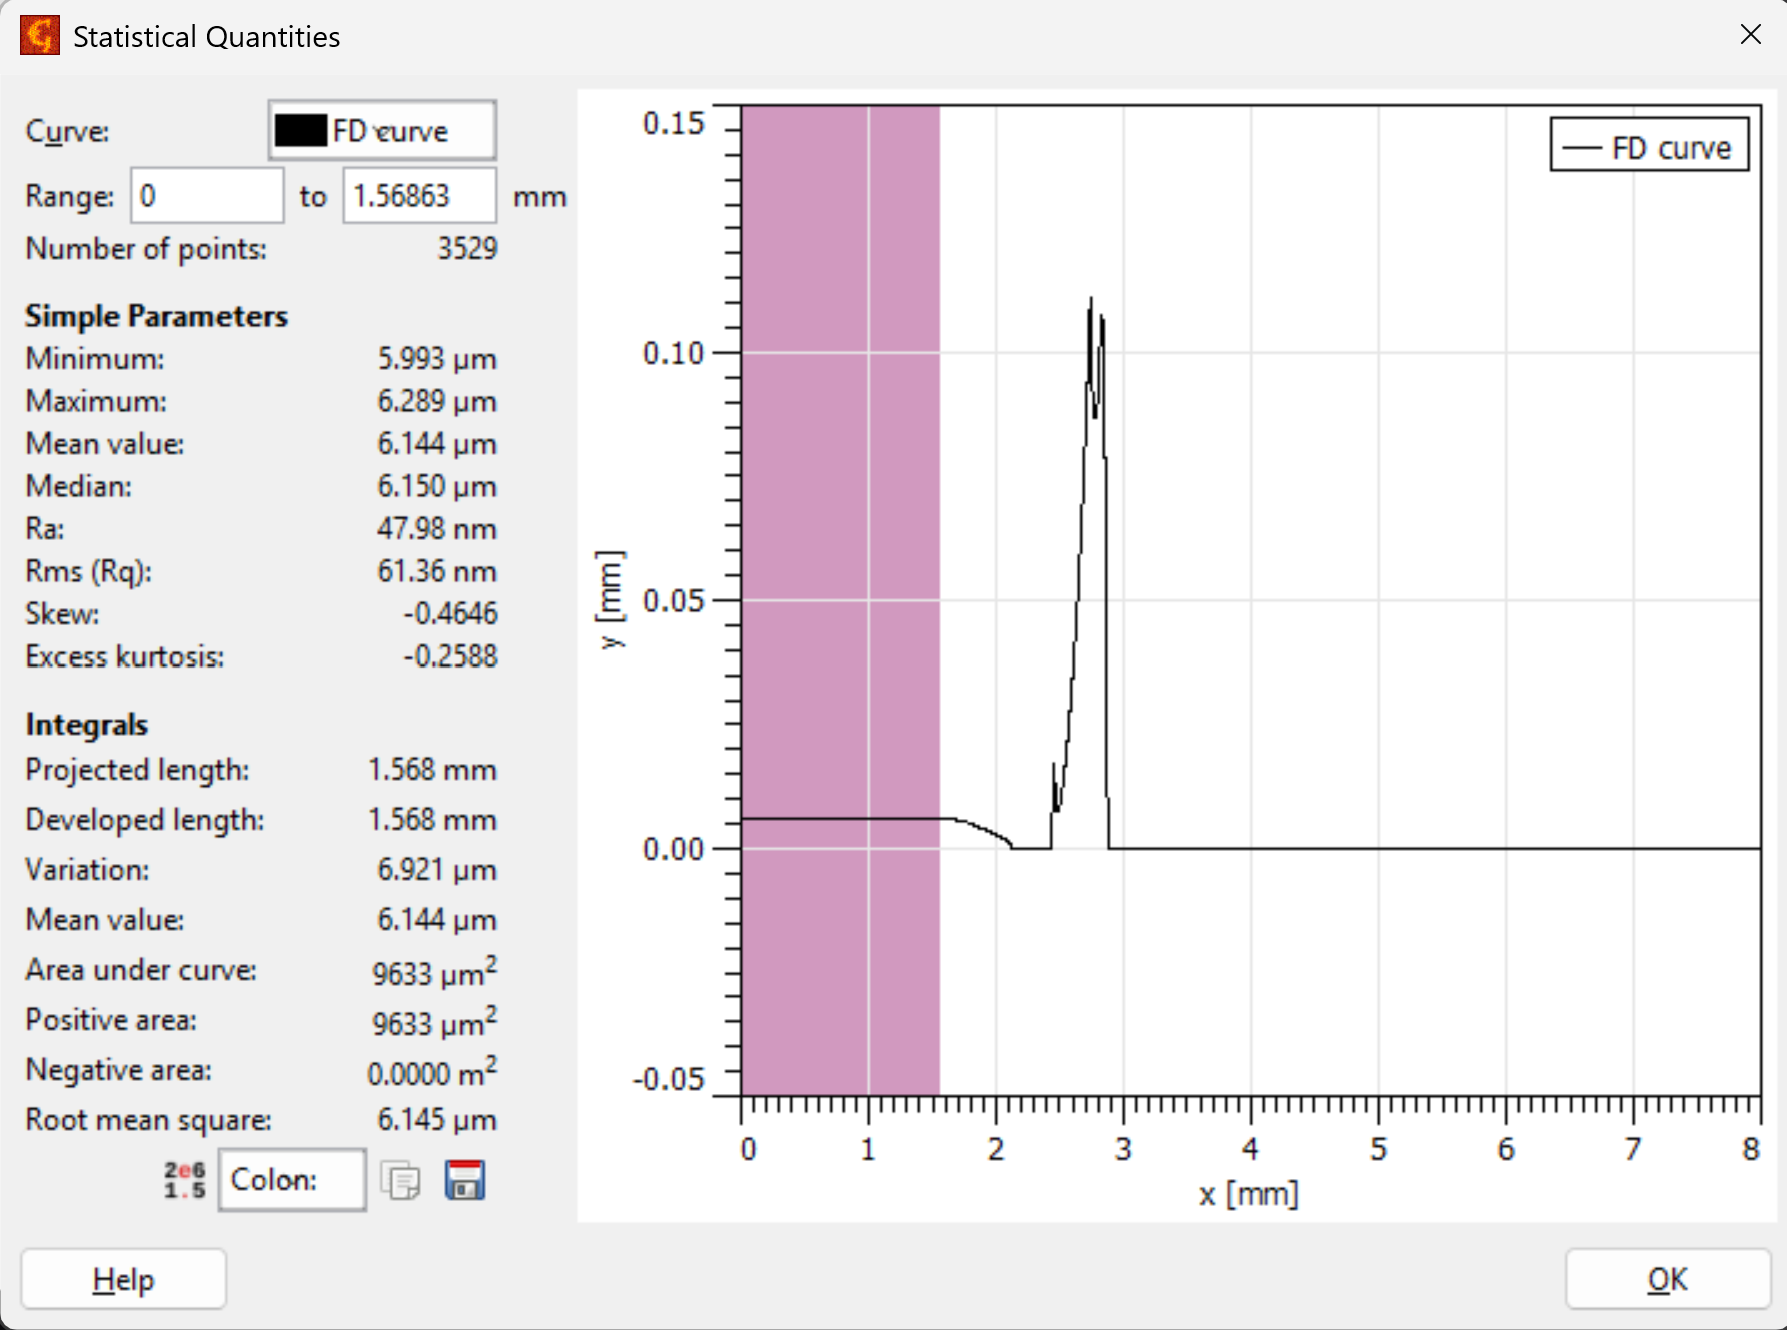
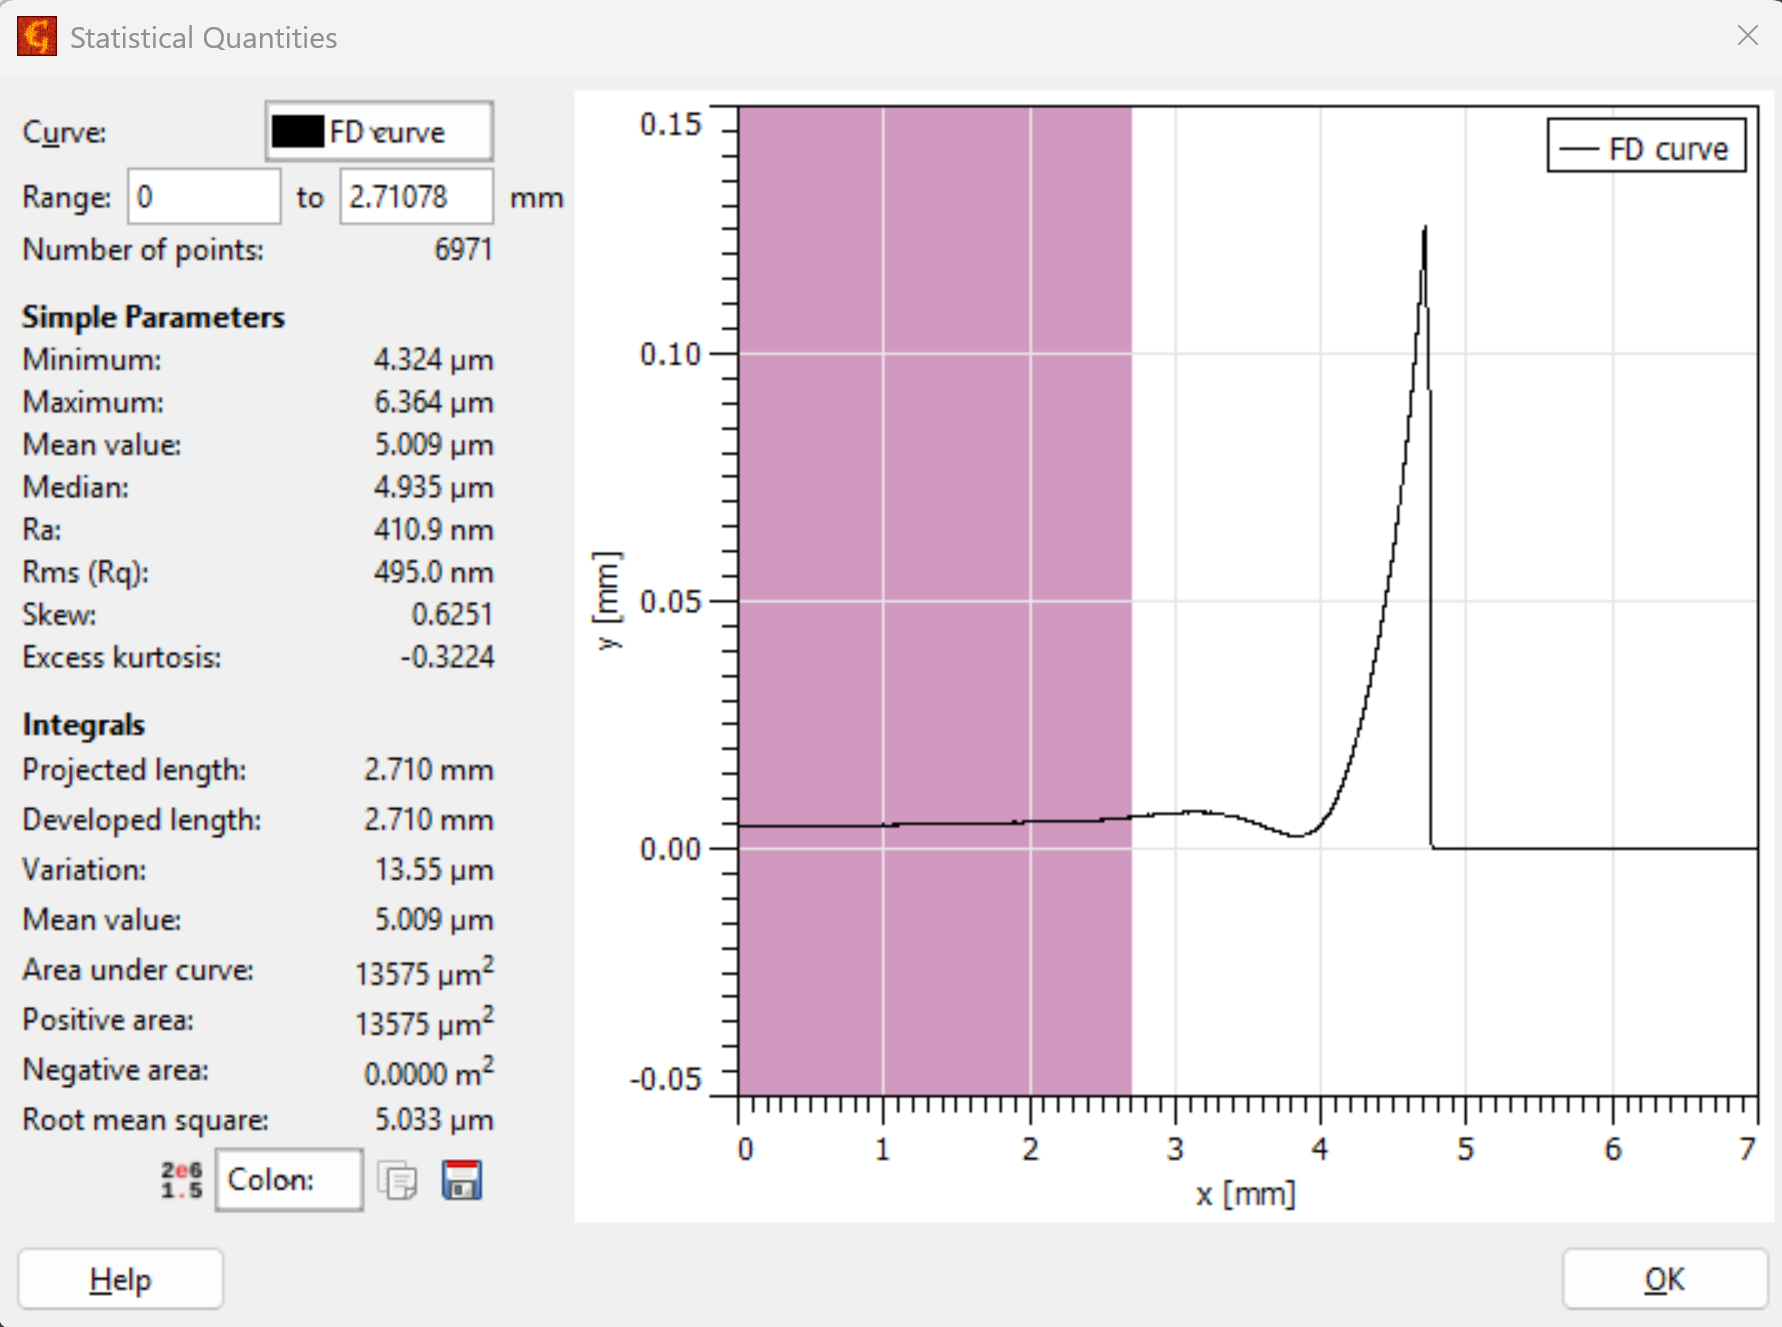
Fix 1250 rpm Gwyddion screenshot in FURI profile analysis
The screenshot labeled 1250 rpm was a second 1000 rpm coupon. Relabel
it as 1000 rpm coupon 2 and add the actual 1250 rpm plateau stats
(5.01 um mean, Ra 411 nm, Rq 495 nm).

diff --git a/projects/sun-devil-semiconductor-club/spin-coat-defect-analysis/README.md b/projects/sun-devil-semiconductor-club/spin-coat-defect-analysis/README.md
@@ -84,20 +84,22 @@ Each Dektak scan is processed in Gwyddion:
 |---|---|
 | ![Raw Dektak profile in Gwyddion, tilted baseline](docs/images/gwyddion_raw_profile_1000rpm.png) | ![Gwyddion Remove Polynomial Background, degree 2 fit on 4.33–8 mm](docs/images/gwyddion_polynomial_leveling_1000rpm.png) |
 
-| Film plateau (1000 rpm) | Film plateau (1250 rpm) |
+| Film plateau (1000 rpm, coupon 1) | Film plateau (1250 rpm) |
 |---|---|
 | ![Gwyddion statistics on the 1000 rpm film plateau](docs/images/gwyddion_stats_film_plateau_1000rpm.png) | ![Gwyddion statistics on the 1250 rpm film plateau](docs/images/gwyddion_stats_film_plateau_1250rpm.png) |
 
 | Speed | Plateau range | Thickness (mean) | Ra | Rq | Edge ridge (max) |
 |---|---|---|---|---|---|
-| 1000 rpm | 0–2.57 mm | 7.10 µm | 142 nm | 160 nm | 122 µm |
-| 1250 rpm | 0–1.57 mm | 6.14 µm | 48 nm | 61 nm | ~110 µm |
+| 1000 rpm (coupon 1) | 0–2.57 mm | 7.10 µm | 142 nm | 160 nm | 122 µm |
+| 1000 rpm (coupon 2) | 0–1.57 mm | 6.14 µm | 48 nm | 61 nm | ~110 µm |
+| 1250 rpm | 0–2.71 mm | 5.01 µm | 411 nm | 495 nm | ~125 µm |
 
-The 1250 rpm ridge height is read from the plot, not from a statistics range.
+Ridge heights marked ~ are read from the plot, not from a statistics range.
 
 <details>
-<summary>Bare Si baseline and edge-ridge statistics (1000 rpm)</summary>
+<summary>Second 1000 rpm coupon, bare Si baseline and edge-ridge statistics</summary>
 
+![Gwyddion statistics on the film plateau of a second 1000 rpm coupon](docs/images/gwyddion_stats_film_plateau_1000rpm_coupon2.png)
 ![Gwyddion statistics on leveled bare Si](docs/images/gwyddion_stats_si_baseline_1000rpm.png)
 ![Gwyddion statistics on the edge ridge](docs/images/gwyddion_stats_edge_ridge_1000rpm.png)
 
